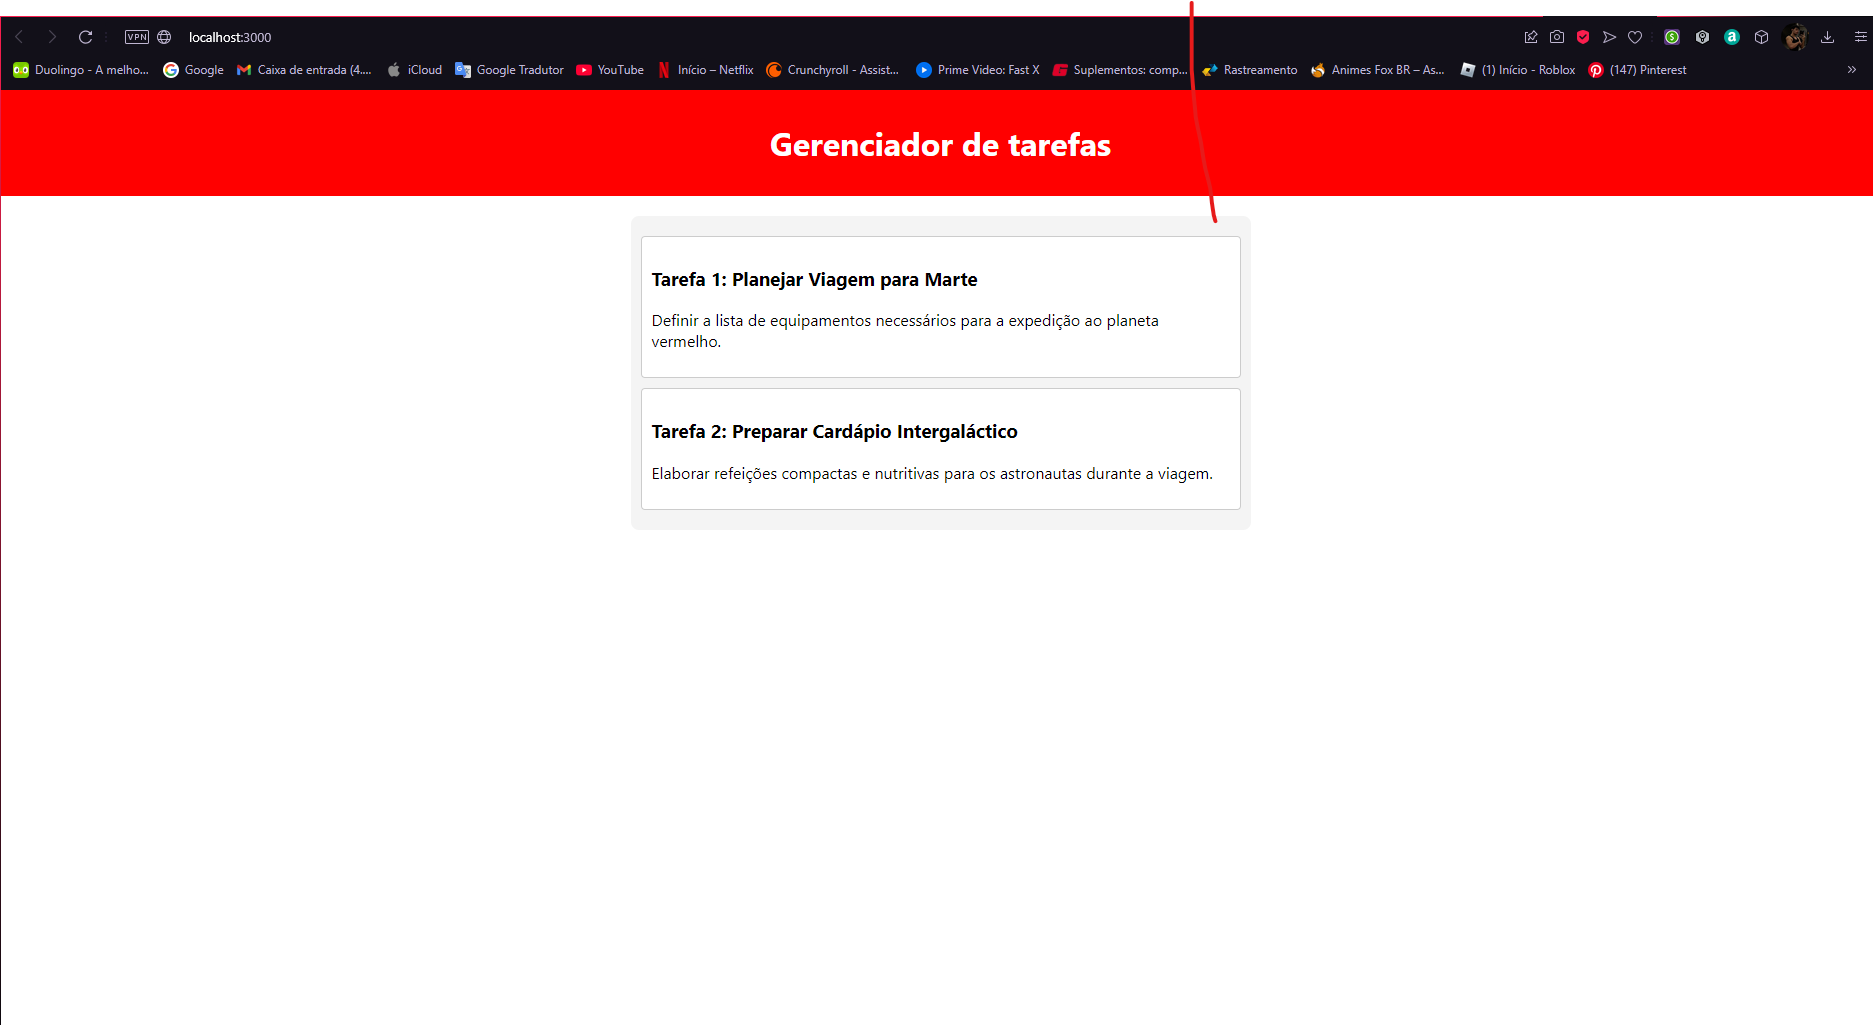
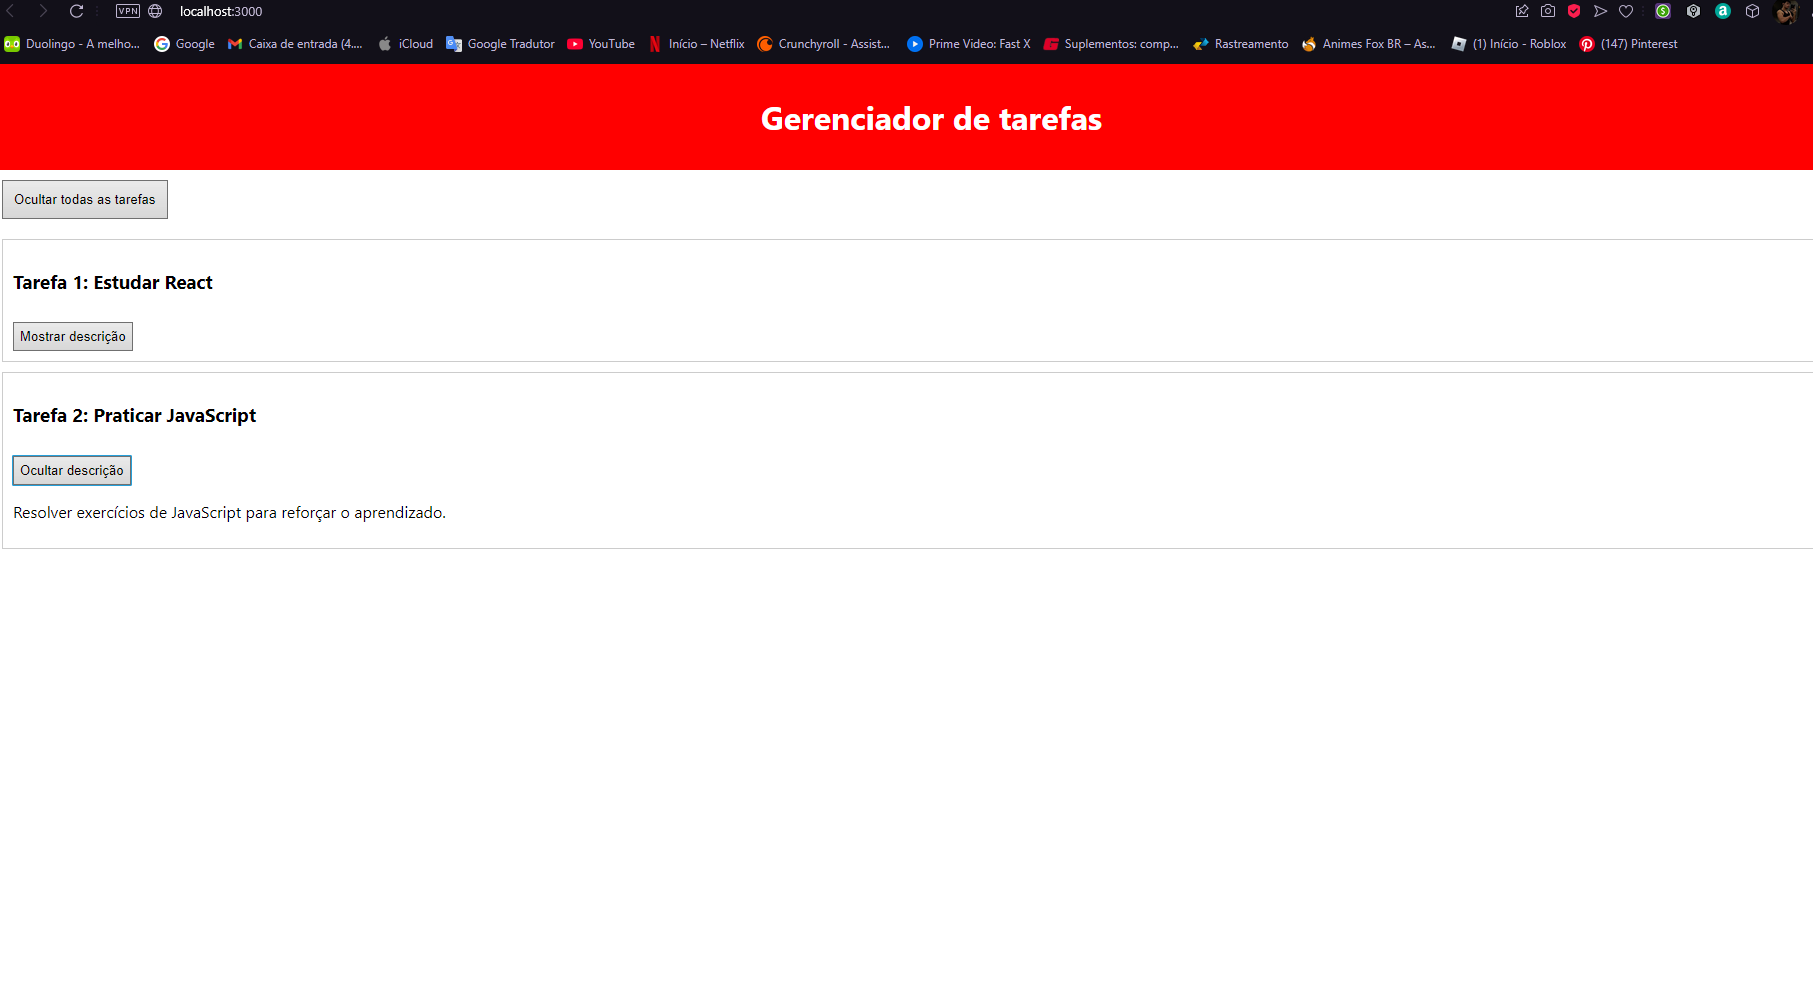
Atualizei a documentação com as novas funcionalidades da aula 17

diff --git a/src/components/TaskContainer.jsx b/src/components/TaskContainer.jsx
@@ -1,36 +1,39 @@
-import React from 'react';
+import React, { useState } from 'react';
 
-function TaskContainer() {
+const TaskContainer = () => {
+  const [showTasks, setShowTasks] = useState(true);
+  const [showDescription, setShowDescription] = useState({ 1: false, 2: false });
+
+  const tasks = [
+    { id: 1, title: 'Tarefa 1: Estudar React', description: 'Revisar conceitos de React para a aula.' },
+    { id: 2, title: 'Tarefa 2: Praticar JavaScript', description: 'Resolver exercícios de JavaScript para reforçar o aprendizado.' }
+  ];
+
+  const toggleTasks = () => {
+    setShowTasks(!showTasks);
+  };
+
+  const toggleDescription = (id) => {
+    setShowDescription((prev) => ({ ...prev, [id]: !prev[id] }));
+  };
+
   return (
-    <div style={containerStyle}>
-      <React.Fragment>
-        <div style={taskStyle}>
-          <h3>Tarefa 1: Planejar Viagem para Marte</h3>
-          <p>Definir a lista de equipamentos necessários para a expedição ao planeta vermelho.</p>
-        </div>
-        <div style={taskStyle}>
-          <h3>Tarefa 2: Preparar Cardápio Intergaláctico</h3>
-          <p>Elaborar refeições compactas e nutritivas para os astronautas durante a viagem.</p>
-        </div>
-      </React.Fragment>
+    <div style={{ padding: '10px' }}>
+      <button onClick={toggleTasks} style={{ marginBottom: '20px', padding: '10px' }}>
+        {showTasks ? 'Ocultar todas as tarefas' : 'Mostrar todas as tarefas'}
+      </button>
+      {showTasks &&
+        tasks.map((task) => (
+          <div key={task.id} style={{ marginBottom: '10px', border: '1px solid #ccc', padding: '10px' }}>
+            <h3>{task.title}</h3>
+            <button onClick={() => toggleDescription(task.id)} style={{ marginTop: '10px', padding: '5px' }}>
+              {showDescription[task.id] ? 'Ocultar descrição' : 'Mostrar descrição'}
+            </button>
+            {showDescription[task.id] && <p>{task.description}</p>}
+          </div>
+        ))}
     </div>
   );
-}
-
-const containerStyle = {
-  margin: '20px auto',
-  padding: '10px',
-  maxWidth: '600px',
-  backgroundColor: '#f4f4f4',
-  borderRadius: '8px',
-};
-
-const taskStyle = {
-  backgroundColor: '#fff',
-  padding: '10px',
-  margin: '10px 0',
-  border: '1px solid #ccc',
-  borderRadius: '4px',
 };
 
 export default TaskContainer;

diff --git a/README.md b/README.md
@@ -1,150 +1,127 @@
-# Documentação da aula 016
+# Documentação da aula 017
 
 ## Informações Gerais
-- **Data de Execução**: 04/12/2024
+- **Data de Execução**: 06/12/2024
 - **Aluno**: Lucas André
 
 ---
 
-# Configuração do Projeto com React
+# Atualização do Projeto com Renderização Condicional e Eventos
 
-## Passos Realizados
+Nesta aula, eu fiz novas mudanças no projeto para praticar **renderização condicional** e **eventos no React**. As principais atualizações foram:
 
-### Aula 16 - Criando um Gerenciador de Tarefas com React
-
-## Descrição das Alterações
-
-Nesta aula, eu realizei várias alterações no projeto para criar um gerenciador de tarefas utilizando React. As mudanças feitas foram:
-
-- Criei o componente `Header`, que exibe o título "Task Manager".
-- Criei o componente `TaskContainer`, que exibe uma lista de tarefas fictícias com títulos e descrições.
-- Modifiquei o arquivo `App.js` para importar e renderizar os componentes `Header` e `TaskContainer`.
-- Utilizei **CSS inline** para estilizar os componentes diretamente dentro de cada arquivo, garantindo um layout simples e funcional.
+- Adicionei um botão para mostrar ou esconder todas as tarefas e para mostrar e esconder a descrição.
+- Mantive os títulos das tarefas (Tarefa 1 e Tarefa 2) junto com os nomes completos.
+- Usei **CSS inline** para deixar os novos botões e elementos com um visual simples e bem organizado.
 
 ---
 
-## Componente Header.js
-
- ***Descrição***: O componente `Header` é responsável por exibir o título "Task Manager" na parte superior da página. Ele serve como um cabeçalho fixo do aplicativo.
-
-### O que o componente faz?
-- O componente `Header` renderiza o título "Task Manager" e o exibe no topo da página. O título é centralizado e tem uma cor de fundo escura com texto branco, para dar um visual limpo e organizado.
-
-### Como o estilo foi aplicado?
-- O estilo foi aplicado diretamente no componente usando CSS inline. Um objeto JavaScript foi utilizado na propriedade `style`, onde defini o alinhamento do texto (`textAlign`), a cor de fundo (`backgroundColor`), e a cor do texto (`color`).
-
-### Bloco de Código
-
-```javascript
-import React from 'react';
-
-function Header() {
-return (
-    <header style={headerStyle}>
-    <h1>Gerenciador de tarefas</h1>
-    </header>
-);
-}
-
-const headerStyle = {
-backgroundColor: '#FF0000',
-color: 'white',
-textAlign: 'center',
-padding: '10px',
-};
-
-export default Header;
-```
-
 ## Componente TaskContainer.js
 
-***Descrição***: O componente `TaskContainer` é responsável por exibir as tarefas. Ele recebe uma lista de tarefas fictícias e as exibe com seus respectivos títulos e descrições.
+### O que foi atualizado?
+1. **Mostrar e esconder todas as tarefas**:  
+   Criei um botão que alterna entre mostrar ou esconder todas as tarefas de uma vez.
 
-### O que o componente faz?
+2. **Manutenção dos títulos**:  
+   Mantive os títulos "Tarefa 1" e "Tarefa 2" ao lado do nome completo das tarefas para manter a organização.
 
-- O `TaskContainer` renderiza uma lista de tarefas, com o título e a descrição de cada uma. Cada tarefa é representada por uma `div`, e as informações das tarefas são armazenadas em um array de objetos chamado `tasks`.
+---
 
-### Como as tarefas são exibidas?
+### Código Atualizado
 
-- As tarefas são exibidas dinamicamente usando o método `.map()`, que percorre o array de tarefas e renderiza cada tarefa em uma `div`. Cada item tem um título e uma descrição, que são inseridos nas tags `<h3>` e `<p>` respectivamente.
-
-### Como o layout foi estilizado?
-
-- A estilização foi feita com **CSS inline**, aplicando margens, bordas e espaçamento nas tarefas para deixá-las bem apresentadas. Cada tarefa tem um estilo próprio, com uma borda ao redor e um fundo branco.
-
-# Bloco de Código
 ```javascript
-import React from 'react';
+import React, { useState } from 'react';
 
-function TaskContainer() {
+const TaskContainer = () => {
+  const [showTasks, setShowTasks] = useState(true);
+
+  const tasks = [
+    { id: 1, title: 'Tarefa 1: Estudar React', description: 'Revisar conceitos de React para a aula.' },
+    { id: 2, title: 'Tarefa 2: Praticar JavaScript', description: 'Resolver exercícios de JavaScript para reforçar o aprendizado.' }
+  ];
+
+  const toggleTasks = () => {
+    setShowTasks(!showTasks);
+  };
+
   return (
-    <div style={containerStyle}>
-      <React.Fragment>
-        <div style={taskStyle}>
-          <h3>Tarefa 1: Planejar Viagem para Marte</h3>
-          <p>Definir a lista de equipamentos necessários para a expedição ao planeta vermelho.</p>
-        </div>
-        <div style={taskStyle}>
-          <h3>Tarefa 2: Preparar Cardápio Intergaláctico</h3>
-          <p>Elaborar refeições compactas e nutritivas para os astronautas durante a viagem.</p>
-        </div>
-      </React.Fragment>
+    <div style={{ padding: '10px' }}>
+      <button onClick={toggleTasks} style={{ marginBottom: '20px', padding: '10px' }}>
+        {showTasks ? 'Ocultar todas as tarefas' : 'Mostrar todas as tarefas'}
+      </button>
+      {showTasks &&
+        tasks.map((task) => (
+          <div key={task.id} style={{ marginBottom: '10px', border: '1px solid #ccc', padding: '10px' }}>
+            <h3>{task.title}</h3>
+          </div>
+        ))}
     </div>
   );
-}
-
-const containerStyle = {
-  margin: '20px auto',
-  padding: '10px',
-  maxWidth: '600px',
-  backgroundColor: '#f4f4f4',
-  borderRadius: '8px',
-};
-
-const taskStyle = {
-  backgroundColor: '#fff',
-  padding: '10px',
-  margin: '10px 0',
-  border: '1px solid #ccc',
-  borderRadius: '4px',
 };
 
 export default TaskContainer;
 
-```
+## Extra: Botões para Mostrar ou Esconder Descrições
 
-## Componente App.js
-***Descrição***: O `App.js` é o ponto de entrada do aplicativo. Ele importa os componentes `Header` e `TaskContainer` e os renderiza na interface.
+Além do que foi pedido na atividade, eu adicionei uma funcionalidade extra. Agora, cada tarefa tem um botão que permite mostrar ou esconder a descrição individualmente.
 
-### O que o arquivo `App.js` faz?
+### O que eu fiz?
 
-- O arquivo `App.js` organiza a renderização dos componentes. Ele importa o componente `Header` e o componente `TaskContainer`, e os exibe dentro de uma `div`. O cabeçalho é exibido primeiro, seguido pela lista de tarefas.
+1.  Adicionei um novo estado chamado `showDescription` para controlar a exibição da descrição de cada tarefa.
+2.  Adicionei botões individuais para cada tarefa, com texto que muda entre "Mostrar descrição" e "Ocultar descrição".
+3.  Usei **renderização condicional** para que as descrições só apareçam quando o botão for clicado.
 
-### Como o componente `TaskContainer` é renderizado?
-
-- O `TaskContainer` é renderizado diretamente no JSX do `App.js`. Ele não recebe dados como props, pois as tarefas estão definidas diretamente dentro do próprio componente.
-
-# Bloco de Código
+### Código do Extra
 ```javascript
-import React from 'react';
-import Header from './components/Header';
-import TaskContainer from './components/TaskContainer';
 
-function App() {
+
+`import React, { useState } from 'react';
+
+const TaskContainer = () => {
+  const [showTasks, setShowTasks] = useState(true);
+  const [showDescription, setShowDescription] = useState({ 1: false, 2: false });
+
+  const tasks = [
+    { id: 1, title: 'Tarefa 1: Estudar React', description: 'Revisar conceitos de React para a aula.' },
+    { id: 2, title: 'Tarefa 2: Praticar JavaScript', description: 'Resolver exercícios de JavaScript para reforçar o aprendizado.' }
+  ];
+
+  const toggleTasks = () => {
+    setShowTasks(!showTasks);
+  };
+
+  const toggleDescription = (id) => {
+    setShowDescription((prev) => ({ ...prev, [id]: !prev[id] }));
+  };
+
   return (
-    <div>
-      <Header />
-      <TaskContainer />
+    <div style={{ padding: '10px' }}>
+      <button onClick={toggleTasks} style={{ marginBottom: '20px', padding: '10px' }}>
+        {showTasks ? 'Ocultar todas as tarefas' : 'Mostrar todas as tarefas'}
+      </button>
+      {showTasks &&
+        tasks.map((task) => (
+          <div key={task.id} style={{ marginBottom: '10px', border: '1px solid #ccc', padding: '10px' }}>
+            <h3>{task.title}</h3>
+            <button onClick={() => toggleDescription(task.id)} style={{ marginTop: '10px', padding: '5px' }}>
+              {showDescription[task.id] ? 'Ocultar descrição' : 'Mostrar descrição'}
+            </button>
+            {showDescription[task.id] && <p>{task.description}</p>}
+          </div>
+        ))}
     </div>
   );
-}
+};
 
-export default App;
+export default TaskContainer;
 ```
 
-# Print do Site funcionando
-![Print do site](public/site_funcionando.png)
+----------
 
+## Estilização do Projeto
 
-# Estilização do Projeto
-A estilização foi feita utilizando CSS inline, ou seja, os estilos foram aplicados diretamente dentro dos componentes React através da propriedade ``style``. Essa abordagem permite uma forma prática e rápida de aplicar estilos, sem a necessidade de arquivos CSS externos. Cada componente tem seus próprios estilos isolados, o que torna o código mais simples e fácil de entender. No entanto, enquanto o CSS inline é eficiente para projetos pequenos, para projetos maiores, pode ser necessário adotar outras estratégias, como o uso de arquivos CSS externos ou bibliotecas de estilização, para garantir melhor organização e escalabilidade do código.
+A estilização foi feita usando **CSS inline** diretamente nos componentes. Isso deixou o código mais simples e fácil de entender. Cada botão tem padding e margens para melhorar a organização visual e a usabilidade.
+
+# Print do site funcionando (Atualizado)
+
+![Print do site](public\site_funcionando.png) 
